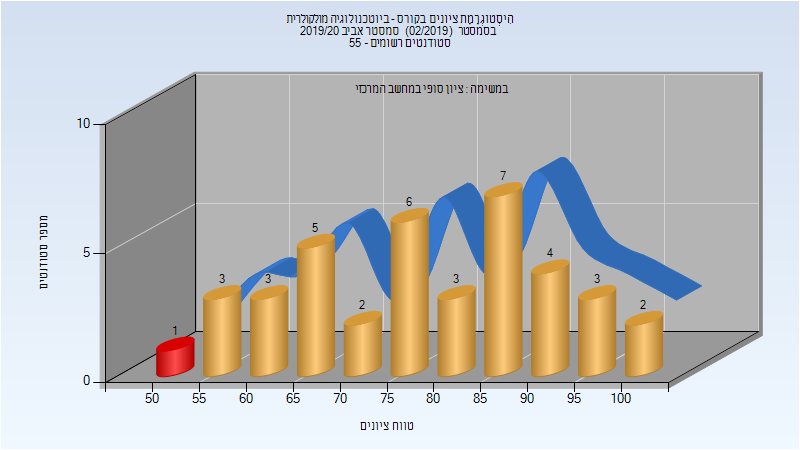
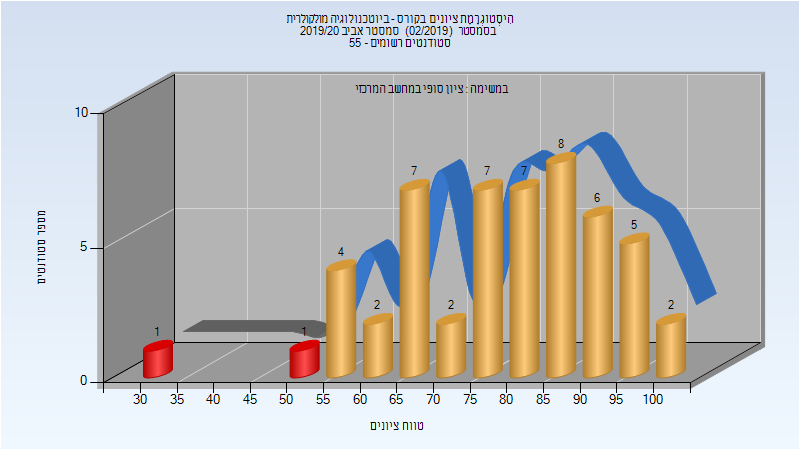
Deploy michael-maltsev/technion-histograms to github.com/michael-maltsev/technion-histograms.git:gh-pages

diff --git a/064507/index.html b/064507/index.html
@@ -410,6 +410,58 @@
 </tr>
 </tbody>
 </table>
+<h3>מבחן מועד ב'</h3>
+<p><img src="201902/Exam_B.png" alt="201902 Exam_B" /></p>
+<table>
+<thead>
+<tr>
+<th>סטודנטים</th>
+<th>עברו/נכשלו</th>
+<th>אחוז עוברים</th>
+<th>ציון מינימלי</th>
+<th>ציון מקסימלי</th>
+<th>ממוצע</th>
+<th>חציון</th>
+</tr>
+</thead>
+<tbody>
+<tr>
+<td>26</td>
+<td>20/6</td>
+<td>77</td>
+<td>21</td>
+<td>99</td>
+<td>65.308</td>
+<td>62.5</td>
+</tr>
+</tbody>
+</table>
+<h3>סופי מועד ב'</h3>
+<p><img src="201902/Final_B.png" alt="201902 Final_B" /></p>
+<table>
+<thead>
+<tr>
+<th>סטודנטים</th>
+<th>עברו/נכשלו</th>
+<th>אחוז עוברים</th>
+<th>ציון מינימלי</th>
+<th>ציון מקסימלי</th>
+<th>ממוצע</th>
+<th>חציון</th>
+</tr>
+</thead>
+<tbody>
+<tr>
+<td>26</td>
+<td>24/2</td>
+<td>92</td>
+<td>33</td>
+<td>99</td>
+<td>71.5</td>
+<td>70</td>
+</tr>
+</tbody>
+</table>
 <h3>סופי</h3>
 <p><img src="201902/Finals.png" alt="201902 Finals" /></p>
 <table>
@@ -426,13 +478,13 @@
 </thead>
 <tbody>
 <tr>
-<td>39</td>
-<td>38/1</td>
-<td>97</td>
 <td>52</td>
+<td>50/2</td>
+<td>96</td>
+<td>33</td>
 <td>100</td>
-<td>78.41</td>
-<td>77</td>
+<td>78.519</td>
+<td>82</td>
 </tr>
 </tbody>
 </table>

diff --git a/114052/index.html b/114052/index.html
@@ -1799,8 +1799,8 @@
 </thead>
 <tbody>
 <tr>
-<td>קניגל עמית</td>
-<td>מרצה - אחראי מקצוע</td>
+<td>וונג חואן</td>
+<td>סגל מנהלי - עם הרשאות מרצה אחראי</td>
 </tr>
 </tbody>
 </table>
@@ -1846,13 +1846,13 @@
 </thead>
 <tbody>
 <tr>
-<td>303</td>
-<td>280/23</td>
-<td>92</td>
-<td>26</td>
+<td>114</td>
+<td>92/22</td>
+<td>81</td>
+<td>1</td>
 <td>100</td>
-<td>79.109</td>
-<td>82</td>
+<td>68.325</td>
+<td>72</td>
 </tr>
 </tbody>
 </table>

diff --git a/094481/index.html b/094481/index.html
@@ -1282,11 +1282,15 @@
 </thead>
 <tbody>
 <tr>
-<td>בורדו נדיה</td>
-<td>מתרגל - עם הרשאות מרצה אחראי</td>
+<td>לוין אלה</td>
+<td>מרצה - אחראי מקצוע</td>
 </tr>
 <tr>
 <td>סלם בלוקה נעמי</td>
+<td>מתרגל - עם הרשאות מרצה אחראי</td>
+</tr>
+<tr>
+<td>בורדו נדיה</td>
 <td>מתרגל - עם הרשאות מרצה אחראי</td>
 </tr>
 <tr>

diff --git a/064507/README.md b/064507/README.md
@@ -122,11 +122,27 @@
 | ---- | ---- | ---- | ---- | ---- | ---- | ---- |
 | 39 | 38/1 | 97 | 52 | 100 | 78.41 | 77 |
 
+### מבחן מועד ב'
+
+![201902 Exam_B](201902/Exam_B.png)
+
+| סטודנטים | עברו/נכשלו | אחוז עוברים | ציון מינימלי | ציון מקסימלי | ממוצע | חציון |
+| ---- | ---- | ---- | ---- | ---- | ---- | ---- |
+| 26 | 20/6 | 77 | 21 | 99 | 65.308 | 62.5 |
+
+### סופי מועד ב'
+
+![201902 Final_B](201902/Final_B.png)
+
+| סטודנטים | עברו/נכשלו | אחוז עוברים | ציון מינימלי | ציון מקסימלי | ממוצע | חציון |
+| ---- | ---- | ---- | ---- | ---- | ---- | ---- |
+| 26 | 24/2 | 92 | 33 | 99 | 71.5 | 70 |
+
 ### סופי
 
 ![201902 Finals](201902/Finals.png)
 
 | סטודנטים | עברו/נכשלו | אחוז עוברים | ציון מינימלי | ציון מקסימלי | ממוצע | חציון |
 | ---- | ---- | ---- | ---- | ---- | ---- | ---- |
-| 39 | 38/1 | 97 | 52 | 100 | 78.41 | 77 |
+| 52 | 50/2 | 96 | 33 | 100 | 78.519 | 82 |
 

diff --git a/094481/README.md b/094481/README.md
@@ -404,8 +404,9 @@
 
 | איש סגל | תפקיד |
 | ---- | ---- |
-| בורדו נדיה | מתרגל - עם הרשאות מרצה אחראי |
+| לוין אלה | מרצה - אחראי מקצוע |
 | סלם בלוקה נעמי | מתרגל - עם הרשאות מרצה אחראי |
+| בורדו נדיה | מתרגל - עם הרשאות מרצה אחראי |
 | רוטבוים אביעד | מתרגל - עם הרשאות מרצה אחראי |
 | זיו דוד מורן | סגל מנהלי - עם הרשאות מרצה אחראי |
 | אגסי זיוה | סגל מנהלי - עם הרשאות מרצה אחראי |

diff --git a/114052/README.md b/114052/README.md
@@ -573,7 +573,7 @@
 
 | איש סגל | תפקיד |
 | ---- | ---- |
-| קניגל עמית | מרצה - אחראי מקצוע |
+| וונג חואן | סגל מנהלי - עם הרשאות מרצה אחראי |
 
 ### סופי מועד א'
 
@@ -589,5 +589,5 @@
 
 | סטודנטים | עברו/נכשלו | אחוז עוברים | ציון מינימלי | ציון מקסימלי | ממוצע | חציון |
 | ---- | ---- | ---- | ---- | ---- | ---- | ---- |
-| 303 | 280/23 | 92 | 26 | 100 | 79.109 | 82 |
+| 114 | 92/22 | 81 | 1 | 100 | 68.325 | 72 |
 
